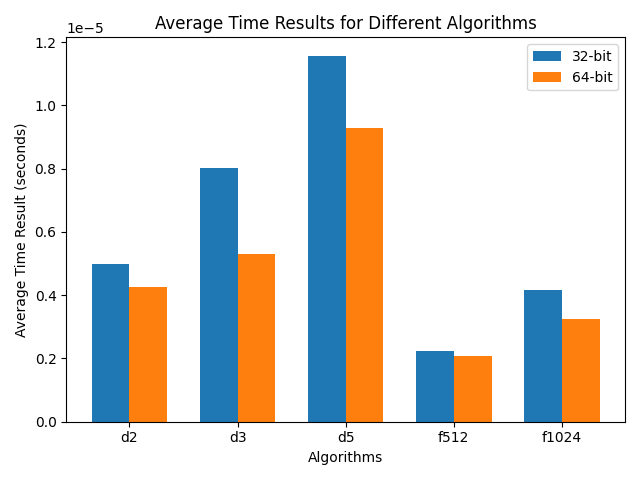
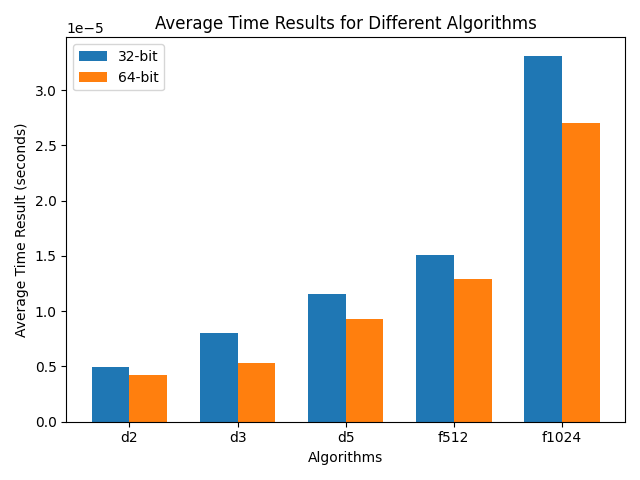
updated images

diff --git a/trusted_broker/Design_A/mosquitto_code/mosquitto/client/test_results_rpi_32/plot3.py b/trusted_broker/Design_A/mosquitto_code/mosquitto/client/test_results_rpi_32/plot3.py
@@ -4,22 +4,22 @@ import matplotlib.pyplot as plt
 
 # List of file names
 file_names = [
-    "time_results_publisher_d2.txt",
-    "time_results_publisher_d3.txt",
-    "time_results_publisher_d5.txt",
-    "time_results_publisher_f512.txt",
-    "time_results_publisher_f1024.txt"
+    "time_results_subscriber_d2.txt",
+    "time_results_subscriber_d3.txt",
+    "time_results_subscriber_d5.txt",
+    "time_results_subscriber_f512.txt",
+    "time_results_subscriber_f1024.txt"
 ]
 
 
-# List of file names
+'''# List of file names
 file_names = [
     "../test_results_rpi_64/time_results_publisher_d2.txt",
     "../test_results_rpi_64/time_results_publisher_d3.txt",
     "../test_results_rpi_64/time_results_publisher_d5.txt",
     "../test_results_rpi_64/time_results_publisher_f512.txt",
     "../test_results_rpi_64/time_results_publisher_f1024.txt"
-]
+]'''
 
 # Dictionary to store average time results for each algorithm
 data = {}
@@ -32,16 +32,14 @@ for file_name in file_names:
         signing_results = []
         encode_sig = []
         encode_pk = []
-        cjson_results = []
         for line in lines:
             # Extract values using regular expression
-            match1 = re.search(r'(Dilithium2|Dilithium|Falcon|Dilithium3|Dilithium5) initialization execution time: (\d+\.\d+) seconds', line)
-            match2 = re.search(r'Signing message (Dilithium|Falcon) execution time: (\d+\.\d+) seconds', line)
-            match3 = re.search(r'Encode signature (Dilithium|Falcon) execution time: (\d+\.\d+) seconds', line)
-            match4 = re.search(r'Encode PK (Dilithium|Falcon) execution time: (\d+\.\d+) seconds', line)
-            match5 = re.search(r'Generating cJSON execution time: (\d+\.\d+) seconds', line)
+            match1 = re.search(r'Extracting payload from cJSON execution time: (\d+\.\d+) seconds', line)
+            match2 = re.search(r'Decode sig (Dilithium|Falcon) execution time: (\d+\.\d+) seconds', line)
+            match3 = re.search(r'Decode PK (Dilithium|Falcon) execution time: (\d+\.\d+) seconds', line)
+            match4 = re.search(r'Verification (Dilithium|Falcon) execution time: (\d+\.\d+) seconds', line)
             if match1:
-                result = float(match1.group(2))
+                result = float(match1.group(1))
                 initialization_results.append(result)
             if match2:
                 result = float(match2.group(2))
@@ -52,30 +50,24 @@ for file_name in file_names:
             if match4:
                 result = float(match4.group(2))
                 encode_pk.append(result)
-            if match5:
-                result = float(match5.group(1))
-                cjson_results.append(result)
 
         # Calculate average time result for the current algorithm
-        average_initialization_results = np.mean(initialization_results)
+        average_parse_json = np.mean(initialization_results)
         average_signing_results = np.mean(signing_results)
-        average_encode_sig = np.mean(encode_sig)
-        average_encode_pk = np.mean(encode_pk)
-        average_cjson_results = np.mean(cjson_results)
+        average_decode = np.mean(encode_sig + signing_results)
+        average_verify = np.mean(encode_pk)
         #print(counter)
         # Extract algorithm name from file name
-        algorithm_name = re.search(r'_publisher_(\w+)', file_name).group(1)
+        algorithm_name = re.search(r'_subscriber_(\w+)', file_name).group(1)
         # Store average time result in the dictionary
-        data[algorithm_name  + "-keygen"] = average_initialization_results
-        data[algorithm_name  + "-sign"] = average_signing_results
-        data[algorithm_name  + "-encsig"] = average_encode_sig
-        data[algorithm_name  + "-encpk"] = average_encode_pk
-        data[algorithm_name  + "-cjson"] = average_cjson_results
+        data[algorithm_name  + "-parse json"] = average_parse_json
+        data[algorithm_name  + "-decode sig & pk"] = average_decode
+        data[algorithm_name  + "-verify"] = average_verify
 print(data)
 
 
 # Extracting data for each category and algorithm
-categories = ['sign', 'encsig', 'encpk', 'cjson']
+categories = ['parse json', 'decode sig & pk', 'verify']
 #categories = ['sign', 'encsig', 'encpk', 'cjson']
 algorithms = ['d2', 'd3', 'd5', 'f512', 'f1024']
 
@@ -87,8 +79,8 @@ for i, algorithm in enumerate(algorithms):
     plt.bar(r + i * bar_width, values[i], width=bar_width, edgecolor='grey', label=f'{algorithm}')
 
 plt.xlabel('Categories')
-plt.ylabel('Values')
-plt.title('publisher 64 bits without keygen')
+plt.ylabel('Time')
+plt.title('Subscriber 32 bit  bits')
 plt.xticks(r + bar_width * 2, categories)
 plt.legend(algorithms)
 
